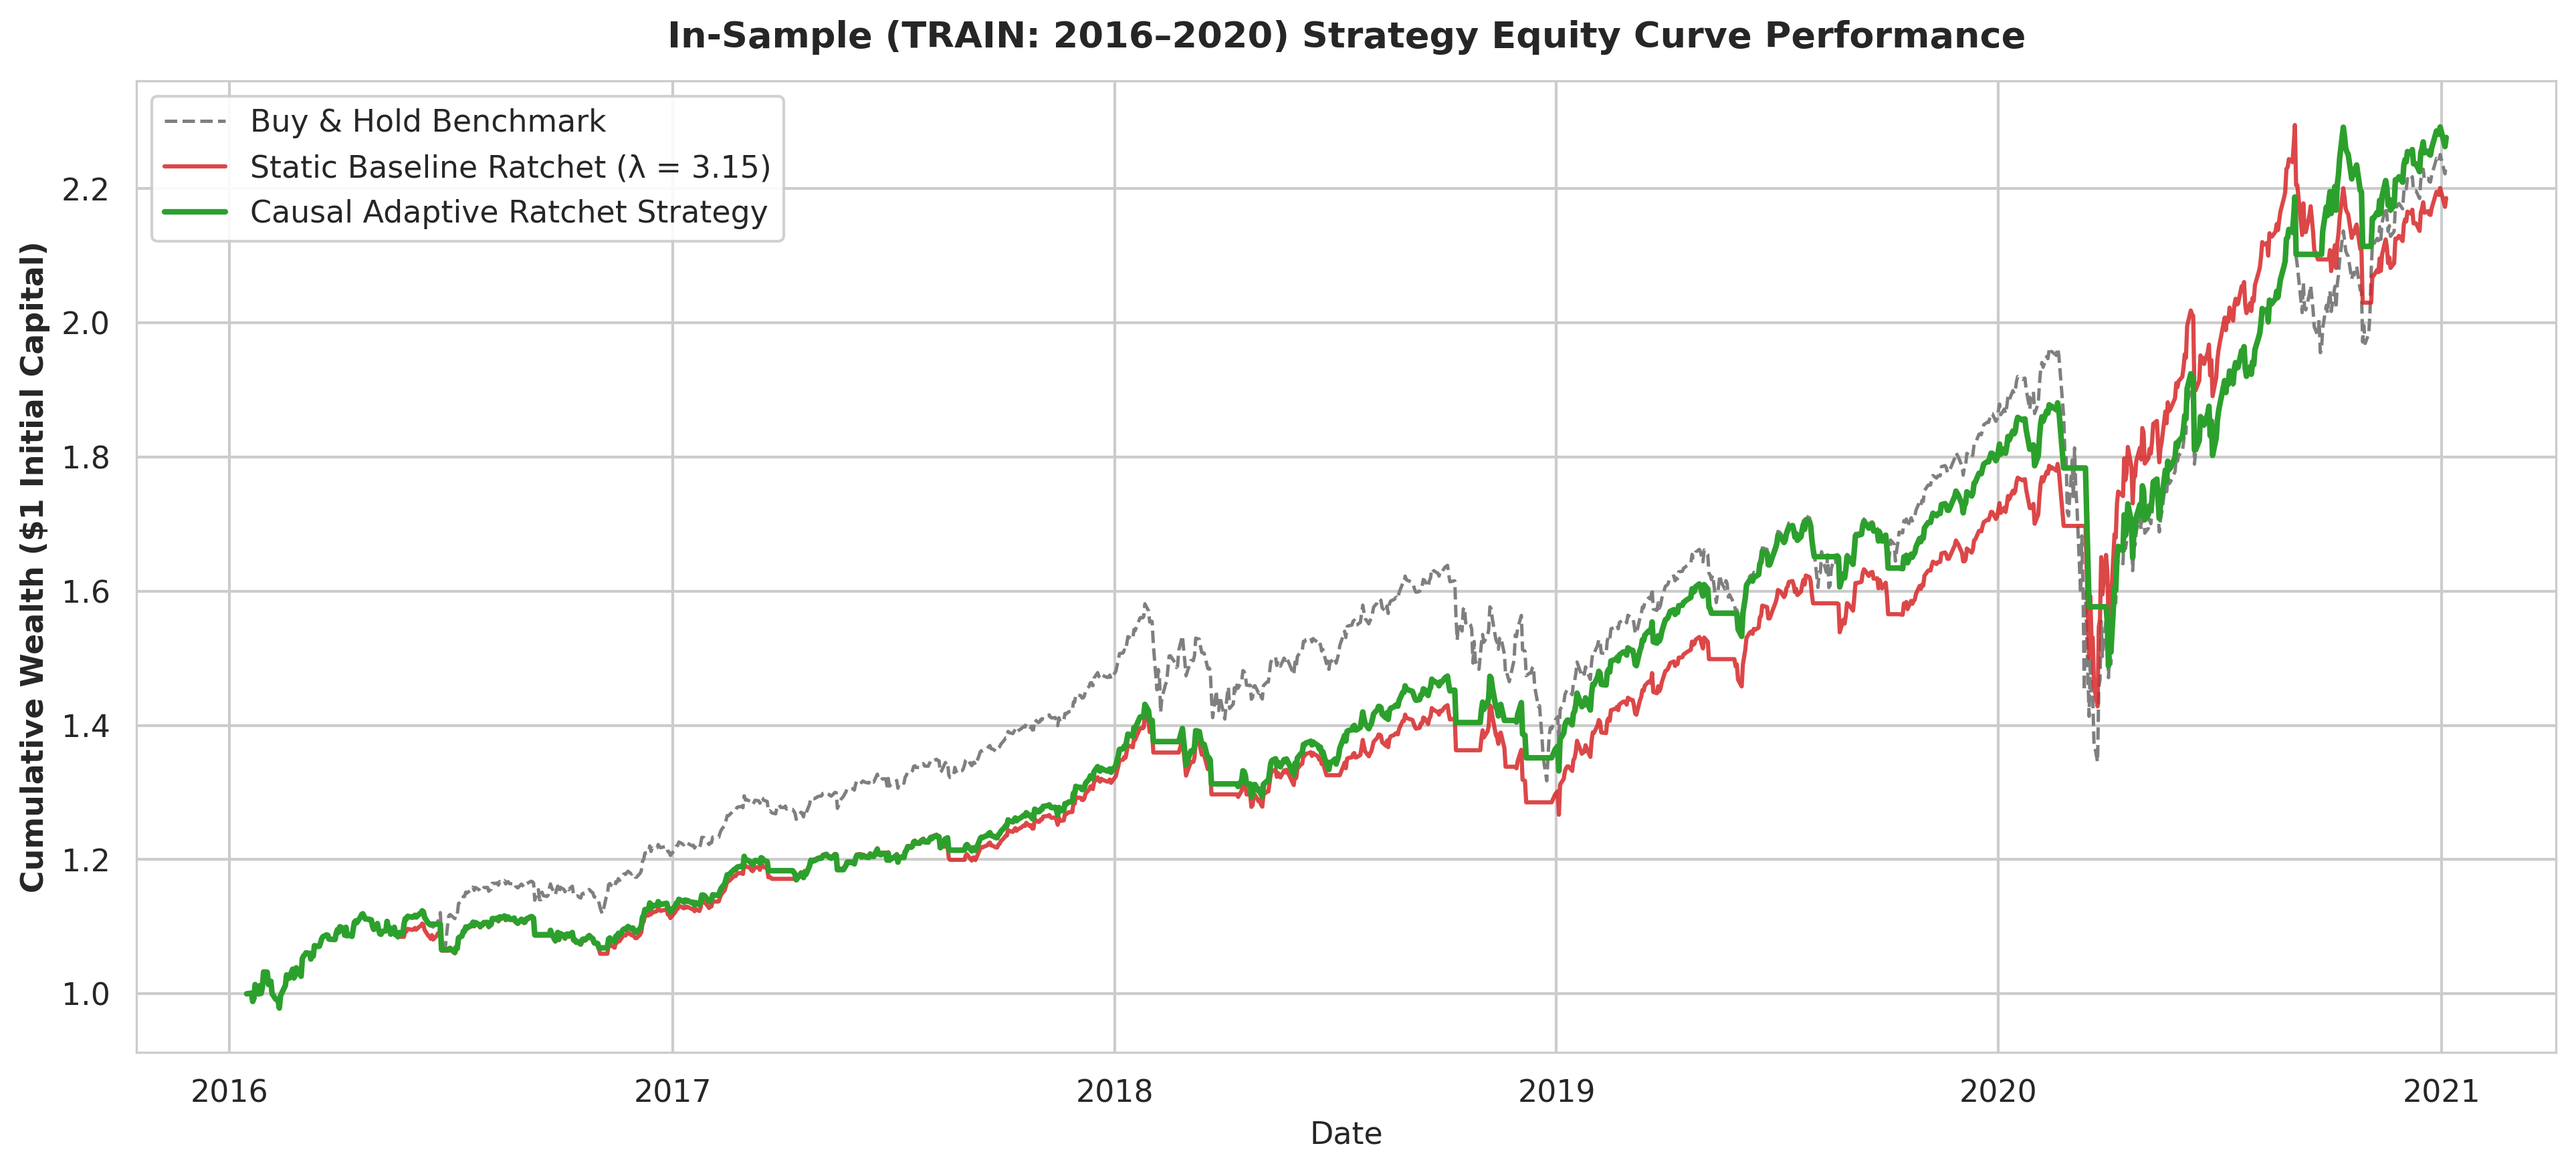
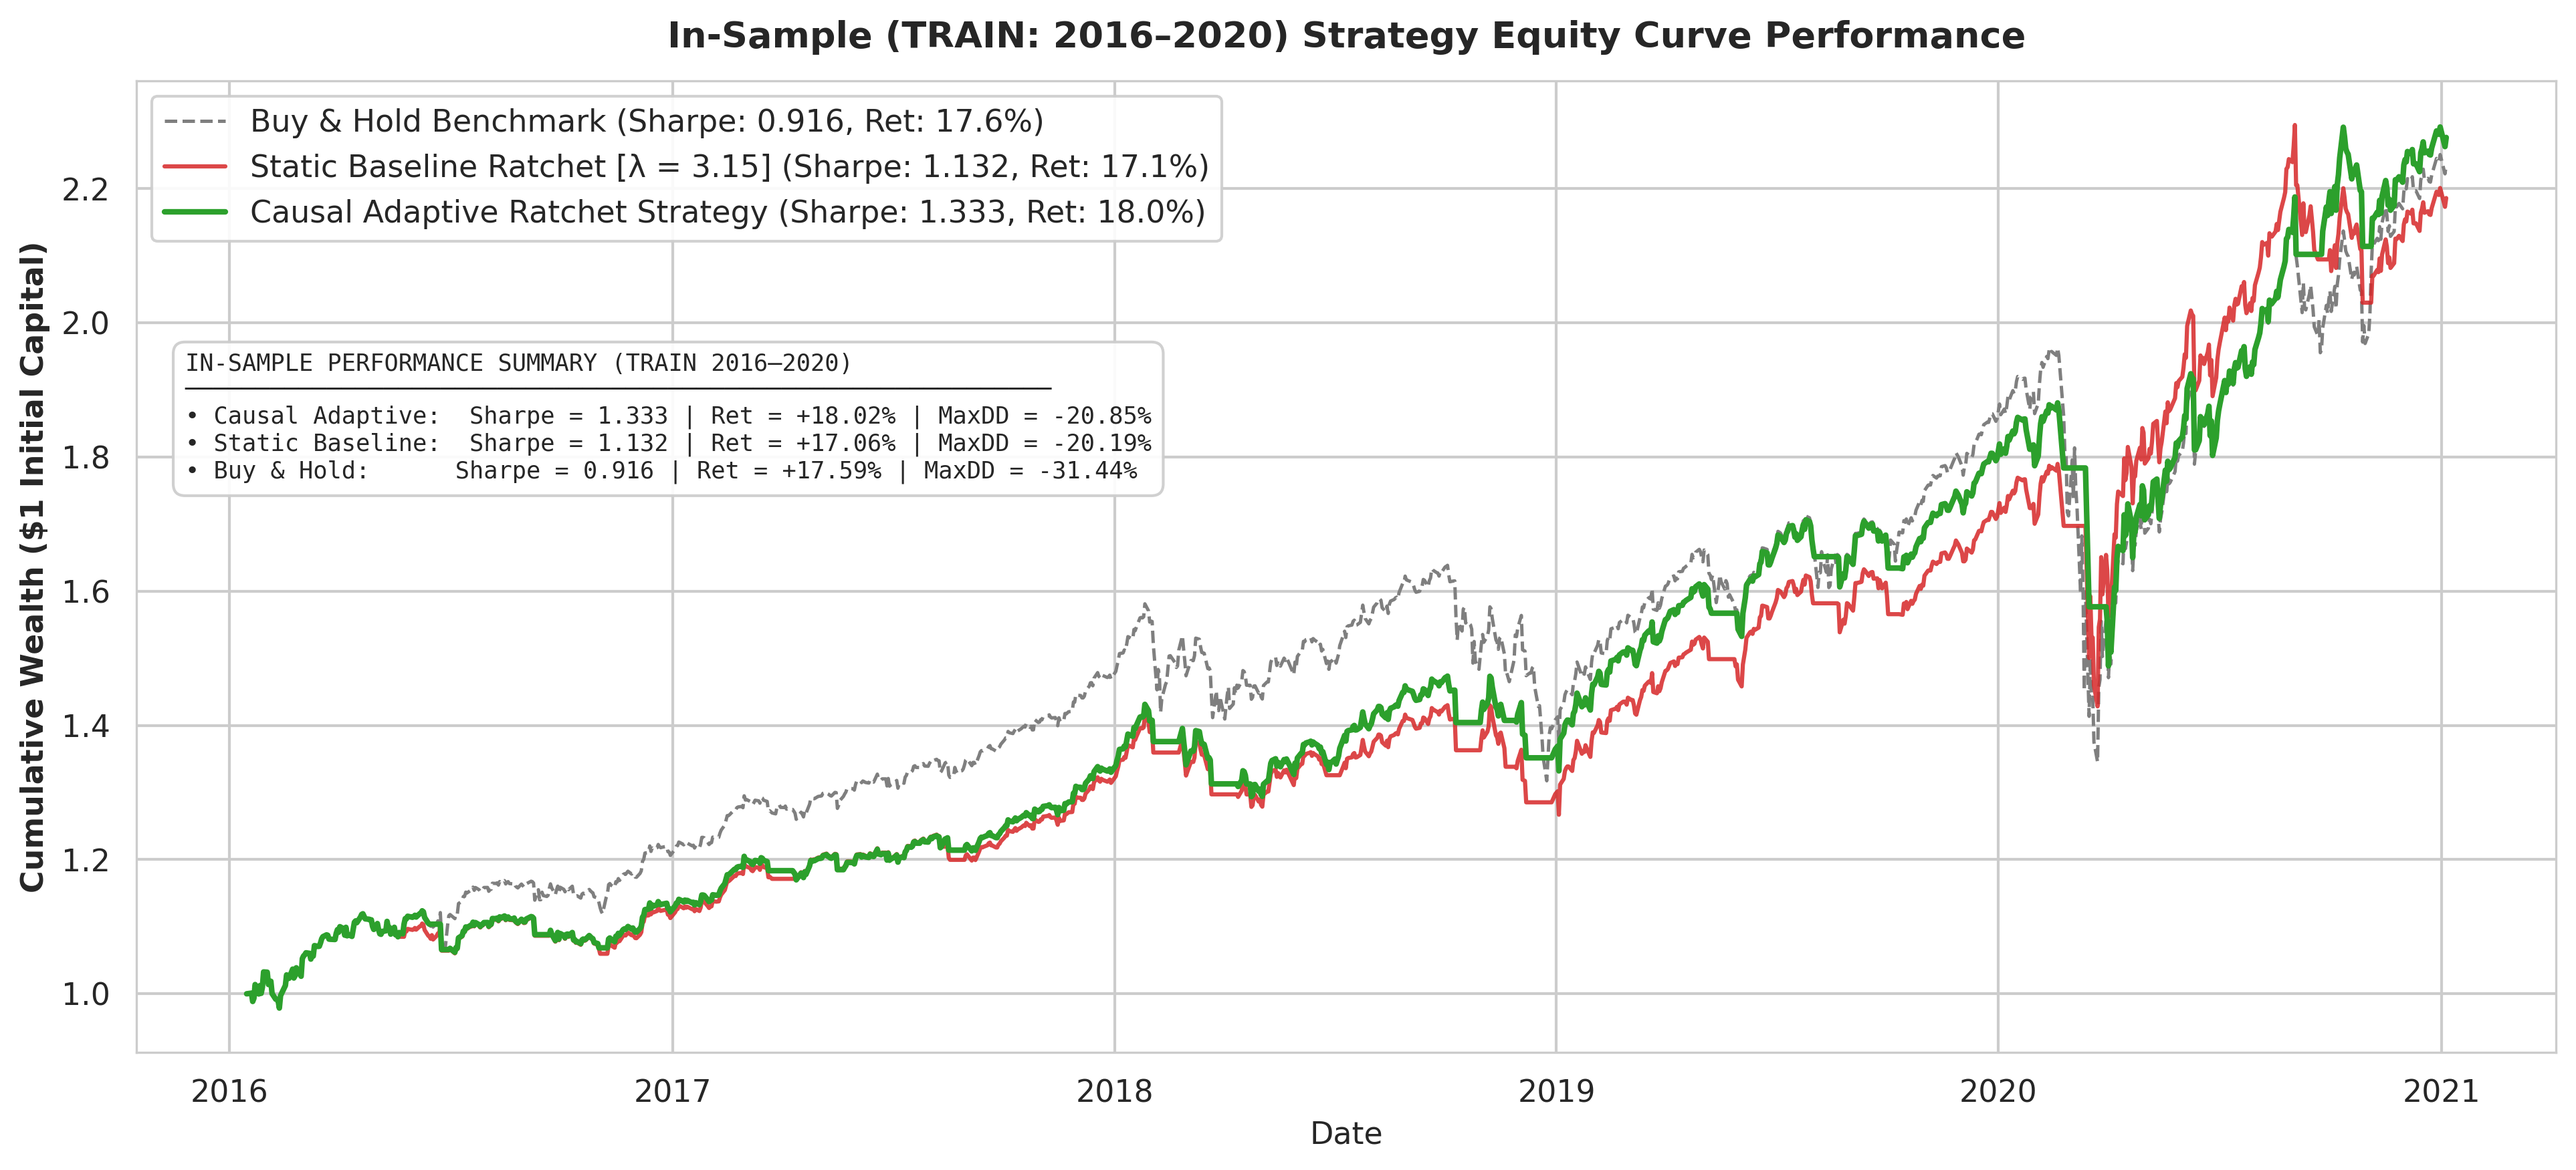
docs(figures): embed quantitative metric badges on equity and drawdown charts

diff --git a/src/causal_volatility/visualization/stage_diagnostics.py b/src/causal_volatility/visualization/stage_diagnostics.py
@@ -314,26 +314,61 @@ def plot_in_sample_equity_curve(
 
     close = backtest_is["Close"].values
     market_returns = np.diff(np.log(close))
+    years_is = len(market_returns) / 252.0 if len(market_returns) > 0 else 1.0
 
     # Strategies
     bh_wealth = np.exp(np.cumsum(market_returns))
+    bh_ann_ret = (bh_wealth[-1]) ** (1.0 / years_is) - 1.0
+    bh_ann_vol = float(np.std(market_returns) * np.sqrt(252))
+    bh_sharpe = bh_ann_ret / bh_ann_vol if bh_ann_vol > 0 else 0.0
+    bh_peak = np.maximum.accumulate(np.insert(bh_wealth, 0, 1.0))
+    bh_dd = (np.insert(bh_wealth, 0, 1.0) - bh_peak) / np.maximum(bh_peak, 1e-12)
+    bh_max_dd = float(np.min(bh_dd))
     bh_wealth = np.insert(bh_wealth, 0, 1.0)
 
     std_state = backtest_is["Standard_State"].values
     std_returns = market_returns * std_state[:-1]
     std_wealth = np.exp(np.cumsum(std_returns))
+    std_ann_ret = (std_wealth[-1]) ** (1.0 / years_is) - 1.0
+    std_ann_vol = float(np.std(std_returns) * np.sqrt(252))
+    std_sharpe = std_ann_ret / std_ann_vol if std_ann_vol > 0 else 0.0
+    std_peak = np.maximum.accumulate(np.insert(std_wealth, 0, 1.0))
+    std_dd = (np.insert(std_wealth, 0, 1.0) - std_peak) / np.maximum(std_peak, 1e-12)
+    std_max_dd = float(np.min(std_dd))
     std_wealth = np.insert(std_wealth, 0, 1.0)
 
     causal_state = backtest_is["Causal_State"].values
     causal_returns = market_returns * causal_state[:-1]
     causal_wealth = np.exp(np.cumsum(causal_returns))
+    causal_ann_ret = (causal_wealth[-1]) ** (1.0 / years_is) - 1.0
+    causal_ann_vol = float(np.std(causal_returns) * np.sqrt(252))
+    causal_sharpe = causal_ann_ret / causal_ann_vol if causal_ann_vol > 0 else 0.0
+    causal_peak = np.maximum.accumulate(np.insert(causal_wealth, 0, 1.0))
+    causal_dd = (np.insert(causal_wealth, 0, 1.0) - causal_peak) / np.maximum(causal_peak, 1e-12)
+    causal_max_dd = float(np.min(causal_dd))
     causal_wealth = np.insert(causal_wealth, 0, 1.0)
 
     dates = backtest_is.index
 
-    ax.plot(dates, bh_wealth, label="Buy & Hold Benchmark", color="#7f7f7f", linewidth=1.2, linestyle="--")
-    ax.plot(dates, std_wealth, label=f"Static Baseline Ratchet (λ = {static_multiplier:.2f})", color="#d62728", linewidth=1.5, alpha=0.85)
-    ax.plot(dates, causal_wealth, label="Causal Adaptive Ratchet Strategy", color="#2ca02c", linewidth=2.0)
+    ax.plot(dates, bh_wealth, label=f"Buy & Hold Benchmark (Sharpe: {bh_sharpe:.3f}, Ret: {bh_ann_ret:.1%})", color="#7f7f7f", linewidth=1.2, linestyle="--")
+    ax.plot(dates, std_wealth, label=f"Static Baseline Ratchet [λ = {static_multiplier:.2f}] (Sharpe: {std_sharpe:.3f}, Ret: {std_ann_ret:.1%})", color="#d62728", linewidth=1.5, alpha=0.85)
+    ax.plot(dates, causal_wealth, label=f"Causal Adaptive Ratchet Strategy (Sharpe: {causal_sharpe:.3f}, Ret: {causal_ann_ret:.1%})", color="#2ca02c", linewidth=2.0)
+
+    info_box = (
+        f"IN-SAMPLE PERFORMANCE SUMMARY (TRAIN 2016–2020)\n"
+        f"─────────────────────────────────────────────────────────────\n"
+        f"• Causal Adaptive:  Sharpe = {causal_sharpe:.3f} | Ret = {causal_ann_ret:+.2%} | MaxDD = {causal_max_dd:.2%}\n"
+        f"• Static Baseline:  Sharpe = {std_sharpe:.3f} | Ret = {std_ann_ret:+.2%} | MaxDD = {std_max_dd:.2%}\n"
+        f"• Buy & Hold:      Sharpe = {bh_sharpe:.3f} | Ret = {bh_ann_ret:+.2%} | MaxDD = {bh_max_dd:.2%}"
+    )
+    ax.text(
+        0.02, 0.72, info_box,
+        transform=ax.transAxes,
+        fontsize=8.5,
+        fontfamily="monospace",
+        verticalalignment="top",
+        bbox=dict(boxstyle="round,pad=0.5", facecolor="white", alpha=0.92, edgecolor="#cccccc")
+    )
 
     ax.set_title("In-Sample (TRAIN: 2016–2020) Strategy Equity Curve Performance", fontsize=13, fontweight="bold", pad=12)
     ax.set_ylabel("Cumulative Wealth ($1 Initial Capital)", fontsize=11, fontweight="bold")
@@ -359,25 +394,60 @@ def plot_out_of_sample_equity_curve(
 
     close = backtest_oos["Close"].values
     market_returns = np.diff(np.log(close))
+    years_oos = len(market_returns) / 252.0 if len(market_returns) > 0 else 1.0
 
     bh_wealth = np.exp(np.cumsum(market_returns))
+    bh_ann_ret = (bh_wealth[-1]) ** (1.0 / years_oos) - 1.0
+    bh_ann_vol = float(np.std(market_returns) * np.sqrt(252))
+    bh_sharpe = bh_ann_ret / bh_ann_vol if bh_ann_vol > 0 else 0.0
+    bh_peak = np.maximum.accumulate(np.insert(bh_wealth, 0, 1.0))
+    bh_dd = (np.insert(bh_wealth, 0, 1.0) - bh_peak) / np.maximum(bh_peak, 1e-12)
+    bh_max_dd = float(np.min(bh_dd))
     bh_wealth = np.insert(bh_wealth, 0, 1.0)
 
     std_state = backtest_oos["Standard_State"].values
     std_returns = market_returns * std_state[:-1]
     std_wealth = np.exp(np.cumsum(std_returns))
+    std_ann_ret = (std_wealth[-1]) ** (1.0 / years_oos) - 1.0
+    std_ann_vol = float(np.std(std_returns) * np.sqrt(252))
+    std_sharpe = std_ann_ret / std_ann_vol if std_ann_vol > 0 else 0.0
+    std_peak = np.maximum.accumulate(np.insert(std_wealth, 0, 1.0))
+    std_dd = (np.insert(std_wealth, 0, 1.0) - std_peak) / np.maximum(std_peak, 1e-12)
+    std_max_dd = float(np.min(std_dd))
     std_wealth = np.insert(std_wealth, 0, 1.0)
 
     causal_state = backtest_oos["Causal_State"].values
     causal_returns = market_returns * causal_state[:-1]
     causal_wealth = np.exp(np.cumsum(causal_returns))
+    causal_ann_ret = (causal_wealth[-1]) ** (1.0 / years_oos) - 1.0
+    causal_ann_vol = float(np.std(causal_returns) * np.sqrt(252))
+    causal_sharpe = causal_ann_ret / causal_ann_vol if causal_ann_vol > 0 else 0.0
+    causal_peak = np.maximum.accumulate(np.insert(causal_wealth, 0, 1.0))
+    causal_dd = (np.insert(causal_wealth, 0, 1.0) - causal_peak) / np.maximum(causal_peak, 1e-12)
+    causal_max_dd = float(np.min(causal_dd))
     causal_wealth = np.insert(causal_wealth, 0, 1.0)
 
     dates = backtest_oos.index
 
-    ax.plot(dates, bh_wealth, label="Buy & Hold Benchmark (OOS)", color="#7f7f7f", linewidth=1.2, linestyle="--")
-    ax.plot(dates, std_wealth, label=f"Static Baseline Ratchet (λ = {static_multiplier:.2f})", color="#d62728", linewidth=1.5, alpha=0.85)
-    ax.plot(dates, causal_wealth, label="Causal Adaptive Ratchet Strategy (OOS)", color="#2ca02c", linewidth=2.0)
+    ax.plot(dates, bh_wealth, label=f"Buy & Hold Benchmark (Sharpe: {bh_sharpe:.3f}, Ret: {bh_ann_ret:.1%})", color="#7f7f7f", linewidth=1.2, linestyle="--")
+    ax.plot(dates, std_wealth, label=f"Static Baseline Ratchet [λ = {static_multiplier:.2f}] (Sharpe: {std_sharpe:.3f}, Ret: {std_ann_ret:.1%})", color="#d62728", linewidth=1.5, alpha=0.85)
+    ax.plot(dates, causal_wealth, label=f"Causal Adaptive Ratchet Strategy (Sharpe: {causal_sharpe:.3f}, Ret: {causal_ann_ret:.1%})", color="#2ca02c", linewidth=2.0)
+
+    info_box = (
+        f"OUT-OF-SAMPLE PERFORMANCE SUMMARY (TEST 2021–2026)\n"
+        f"─────────────────────────────────────────────────────────────\n"
+        f"• Causal Adaptive:  Sharpe = {causal_sharpe:.3f} | Ret = {causal_ann_ret:+.2%} | MaxDD = {causal_max_dd:.2%}\n"
+        f"• Buy & Hold:      Sharpe = {bh_sharpe:.3f} | Ret = {bh_ann_ret:+.2%} | MaxDD = {bh_max_dd:.2%}\n"
+        f"• Static Baseline:  Sharpe = {std_sharpe:.3f} | Ret = {std_ann_ret:+.2%} | MaxDD = {std_max_dd:.2%}"
+    )
+    ax.text(
+        0.02, 0.72, info_box,
+        transform=ax.transAxes,
+        fontsize=8.5,
+        fontfamily="monospace",
+        verticalalignment="top",
+        bbox=dict(boxstyle="round,pad=0.5", facecolor="white", alpha=0.92, edgecolor="#cccccc")
+    )
 
     ax.set_title("True Out-of-Sample (TEST: 2021–2026) Strategy Equity Curve Performance", fontsize=13, fontweight="bold", pad=12)
     ax.set_ylabel("Cumulative Wealth ($1 Initial Capital)", fontsize=11, fontweight="bold")
@@ -416,15 +486,36 @@ def plot_out_of_sample_drawdown(
     causal_state = backtest_oos["Causal_State"].values
     causal_dd = get_dd(market_returns * causal_state[:-1]) * 100.0
 
+    bh_min_dd = float(np.min(bh_dd))
+    std_min_dd = float(np.min(std_dd))
+    causal_min_dd = float(np.min(causal_dd))
+
     dates = backtest_oos.index
 
-    ax.fill_between(dates, bh_dd, 0, color="#7f7f7f", alpha=0.25, label="Buy & Hold Drawdown")
-    ax.fill_between(dates, std_dd, 0, color="#d62728", alpha=0.35, label="Static Baseline Drawdown")
-    ax.fill_between(dates, causal_dd, 0, color="#2ca02c", alpha=0.45, label="Causal Adaptive Drawdown")
+    ax.fill_between(dates, bh_dd, 0, color="#7f7f7f", alpha=0.25, label=f"Buy & Hold Drawdown (Max DD: {bh_min_dd:.2f}%)")
+    ax.fill_between(dates, std_dd, 0, color="#d62728", alpha=0.35, label=f"Static Baseline Drawdown [λ = 3.15] (Max DD: {std_min_dd:.2f}%)")
+    ax.fill_between(dates, causal_dd, 0, color="#2ca02c", alpha=0.45, label=f"Causal Adaptive Drawdown (Max DD: {causal_min_dd:.2f}%)")
 
     ax.plot(dates, bh_dd, color="#7f7f7f", linewidth=0.8, alpha=0.7)
     ax.plot(dates, std_dd, color="#d62728", linewidth=1.2, alpha=0.85)
     ax.plot(dates, causal_dd, color="#1b5e20", linewidth=1.8)
+
+    info_box = (
+        f"DRAWDOWN DEFENSE SUMMARY (TEST 2021–2026)\n"
+        f"─────────────────────────────────────────────────────\n"
+        f"• Causal Adaptive Max DD:  {causal_min_dd:.2f}% (Capital Preserved)\n"
+        f"• Static Baseline Max DD:  {std_min_dd:.2f}%\n"
+        f"• Buy & Hold Max DD:      {bh_min_dd:.2f}% (2022 Bear Market Loss)\n"
+        f"Advantage: Causal drawdown is {abs(bh_min_dd - causal_min_dd):.1f}% shallower than B&H!"
+    )
+    ax.text(
+        0.02, 0.30, info_box,
+        transform=ax.transAxes,
+        fontsize=8.5,
+        fontfamily="monospace",
+        verticalalignment="top",
+        bbox=dict(boxstyle="round,pad=0.5", facecolor="white", alpha=0.92, edgecolor="#cccccc")
+    )
 
     ax.set_title("Out-of-Sample (TEST: 2021–2026) Underwater Drawdown Analysis", fontsize=13, fontweight="bold", pad=12)
     ax.set_ylabel("Drawdown (%)", fontsize=11, fontweight="bold")
